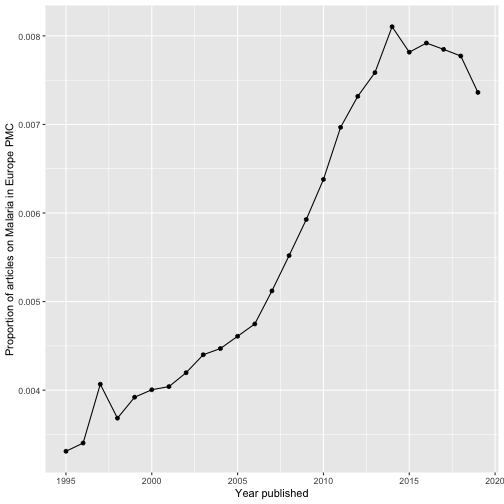
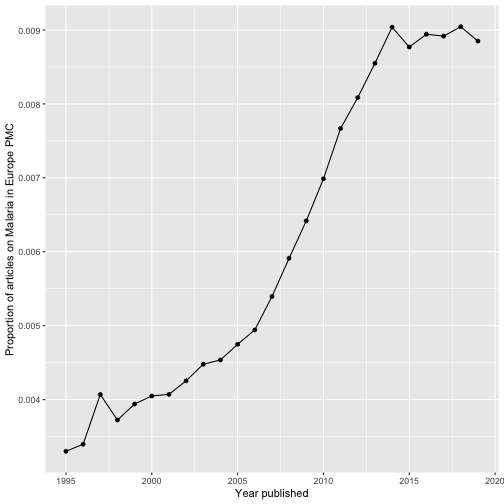
use github actions

diff --git a/README.md b/README.md
@@ -6,6 +6,7 @@ europepmc - R Interface to Europe PMC RESTful Web Service
 
 
 [![Build Status](https://travis-ci.org/ropensci/europepmc.svg?branch=master)](https://travis-ci.org/ropensci/europepmc)
+[![R build status](https://github.com/ropensci/europepmc/workflows/R-CMD-check/badge.svg)](https://github.com/ropensci/europepmc/actions)
 [![Build status](https://ci.appveyor.com/api/projects/status/f8xtpvhhr074lk44?svg=true)](https://ci.appveyor.com/project/sckott/europepmc)
 [![codecov.io](https://codecov.io/github/ropensci/europepmc/coverage.svg?branch=master)](https://codecov.io/github/ropensci/europepmc?branch=master)
 [![cran version](http://www.r-pkg.org/badges/version/europepmc)](https://cran.r-project.org/package=europepmc)
@@ -81,22 +82,23 @@ PMC search syntax to `epmc_search()`.
 ```r
 europepmc::epmc_search(query = '"2019-nCoV" OR "2019nCoV"')
 #> # A tibble: 100 x 29
-#>    id    source pmid  pmcid doi   title authorString journalTitle pubYear journalIssn pubType isOpenAccess
-#>    <chr> <chr>  <chr> <chr> <chr> <chr> <chr>        <chr>        <chr>   <chr>       <chr>   <chr>       
-#>  1 3240… MED    3240… PMC7… 10.1… Livi… Santillan-G… Med Intensi… 2020    "0210-5691… letter  Y           
-#>  2 PPR1… PPR    <NA>  <NA>  10.1… The … Benvenuto D… <NA>         2020     <NA>       prepri… N           
-#>  3 3203… MED    3203… PMC7… 10.1… Emer… Malik YS, S… Vet Q        2020    "0165-2176… other;… Y           
-#>  4 3238… MED    3238… PMC7… 10.1… Comp… Yu R, Chen … Int J Antim… 2020    "1872-7913… resear… Y           
-#>  5 3230… MED    3230… PMC7… 10.1… A ca… Yang X, Zha… Clin Res He… 2020    "2210-7401… case r… Y           
-#>  6 3203… MED    3203… PMC7… 10.1… Coro… Bonilla-Ald… Travel Med … 2020    "1477-8939… resear… Y           
-#>  7 3220… MED    3220… PMC7… 10.4… Ther… Sarma P, Pr… Indian J Ph… 2020    "0253-7613… editor… Y           
-#>  8 3217… MED    3217… PMC7… 10.1… Anes… Zhao S, Lin… J Cardiotho… 2020    "1053-0770… resear… Y           
-#>  9 3240… MED    3240… PMC7… 10.1… Prev… Wang X, Wan… Diabetes Re… 2020    "0168-8227… resear… Y           
-#> 10 PMC7… PMC    <NA>  PMC7… 10.1… The … Rastogi YR,… Int J Envir… <NA>    "1735-1472… review… Y           
-#> # … with 90 more rows, and 17 more variables: inEPMC <chr>, inPMC <chr>, hasPDF <chr>, hasBook <chr>,
-#> #   hasSuppl <chr>, citedByCount <int>, hasReferences <chr>, hasTextMinedTerms <chr>,
-#> #   hasDbCrossReferences <chr>, hasLabsLinks <chr>, hasTMAccessionNumbers <chr>, firstIndexDate <chr>,
-#> #   firstPublicationDate <chr>, issue <chr>, journalVolume <chr>, pageInfo <chr>, versionNumber <int>
+#>    id    source pmid  pmcid doi   title authorString journalTitle issue journalVolume pubYear
+#>    <chr> <chr>  <chr> <chr> <chr> <chr> <chr>        <chr>        <chr> <chr>         <chr>  
+#>  1 3318… MED    3318… PMC7… 10.1… The … Kim YJ, Qia… Medicine (B… 46    99            2020   
+#>  2 3240… MED    3240… PMC7… 10.1… Livi… Santillan-G… Med Intensi… <NA>  <NA>          2020   
+#>  3 3259… MED    3259… PMC7… 10.1… Earl… Hanrahan JG… World Neuro… <NA>  141           2020   
+#>  4 3311… MED    3311… PMC7… 10.7… UNCO… Xu W, Zhang… J Glob Heal… 2     10            2020   
+#>  5 3234… MED    3234… PMC7… 10.1… Obes… Carretero G… Rev Clin Esp 6     220           2020   
+#>  6 PMC7… PMC    <NA>  PMC7… <NA>  Obes… Carretero G… Rev Clin Es… 6     220           2020   
+#>  7 PPR1… PPR    <NA>  <NA>  10.2… Comp… Han Y, Feng… <NA>         <NA>  <NA>          2020   
+#>  8 3283… MED    3283… PMC7… 10.1… New … Gao W, Bask… Adv Differ … 1     2020          2020   
+#>  9 PPR1… PPR    <NA>  <NA>  10.2… Clin… Lu H, Zheng… <NA>         <NA>  <NA>          2020   
+#> 10 PPR1… PPR    <NA>  <NA>  10.1… The … Benvenuto D… <NA>         <NA>  <NA>          2020   
+#> # … with 90 more rows, and 18 more variables: journalIssn <chr>, pageInfo <chr>, pubType <chr>,
+#> #   isOpenAccess <chr>, inEPMC <chr>, inPMC <chr>, hasPDF <chr>, hasBook <chr>, hasSuppl <chr>,
+#> #   citedByCount <int>, hasReferences <chr>, hasTextMinedTerms <chr>,
+#> #   hasDbCrossReferences <chr>, hasLabsLinks <chr>, hasTMAccessionNumbers <chr>,
+#> #   firstIndexDate <chr>, firstPublicationDate <chr>, versionNumber <int>
 ```
 
 Be aware that Europe PMC expands queries with MeSH synonyms by default. You can turn this behavior off using the `synonym = FALSE` parameter.
@@ -118,16 +120,16 @@ tt_oa
 #> # A tibble: 25 x 3
 #>     year all_hits query_hits
 #>    <int>    <dbl>      <dbl>
-#>  1  1995   448961       1486
-#>  2  1996   458444       1560
-#>  3  1997   456594       1857
-#>  4  1998   474525       1748
-#>  5  1999   493574       1935
-#>  6  2000   531892       2130
-#>  7  2001   545533       2204
-#>  8  2002   561118       2355
-#>  9  2003   588172       2588
-#> 10  2004   627729       2806
+#>  1  1995   448921       1482
+#>  2  1996   458439       1557
+#>  3  1997   456592       1858
+#>  4  1998   474523       1767
+#>  5  1999   493567       1945
+#>  6  2000   531927       2154
+#>  7  2001   545527       2221
+#>  8  2002   561251       2388
+#>  9  2003   588341       2635
+#> 10  2004   627949       2849
 #> # … with 15 more rows
 # we use ggplot2 for plotting the graph
 library(ggplot2)
